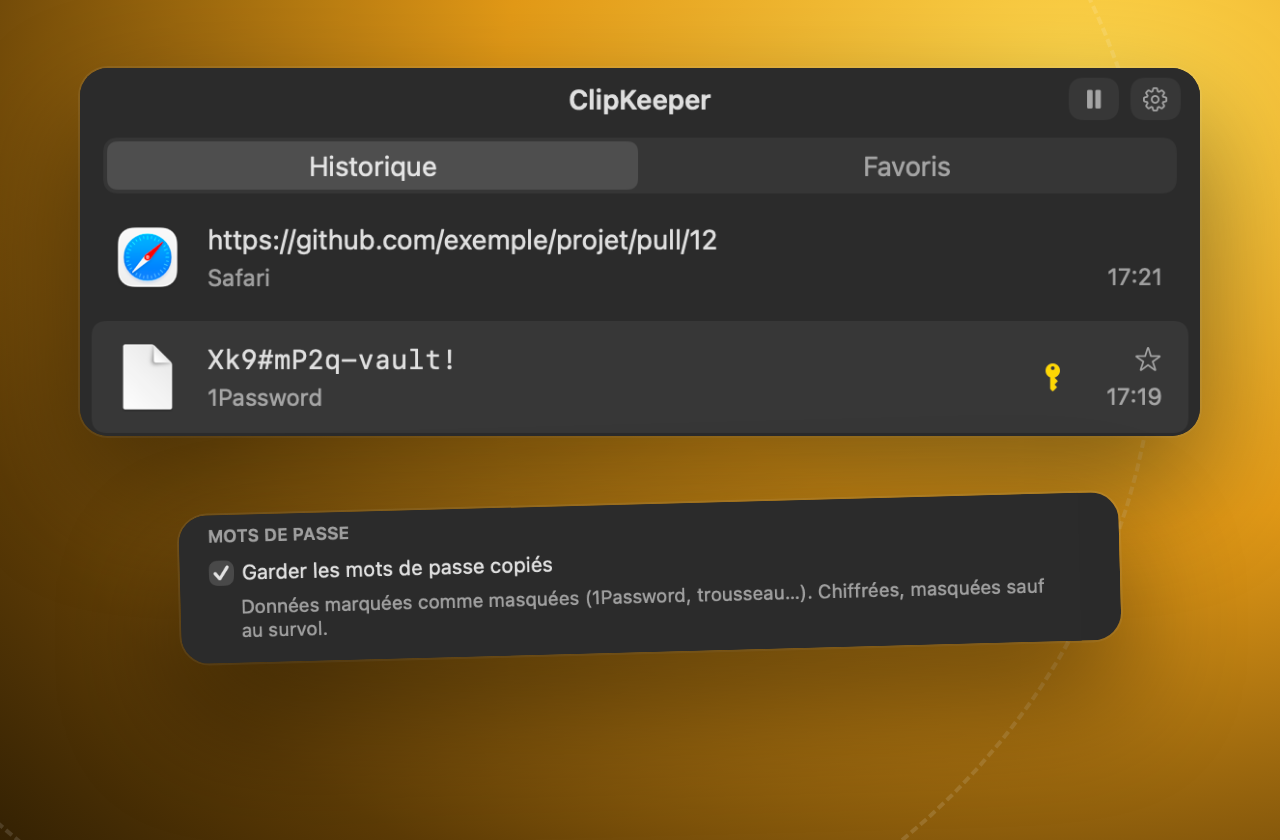
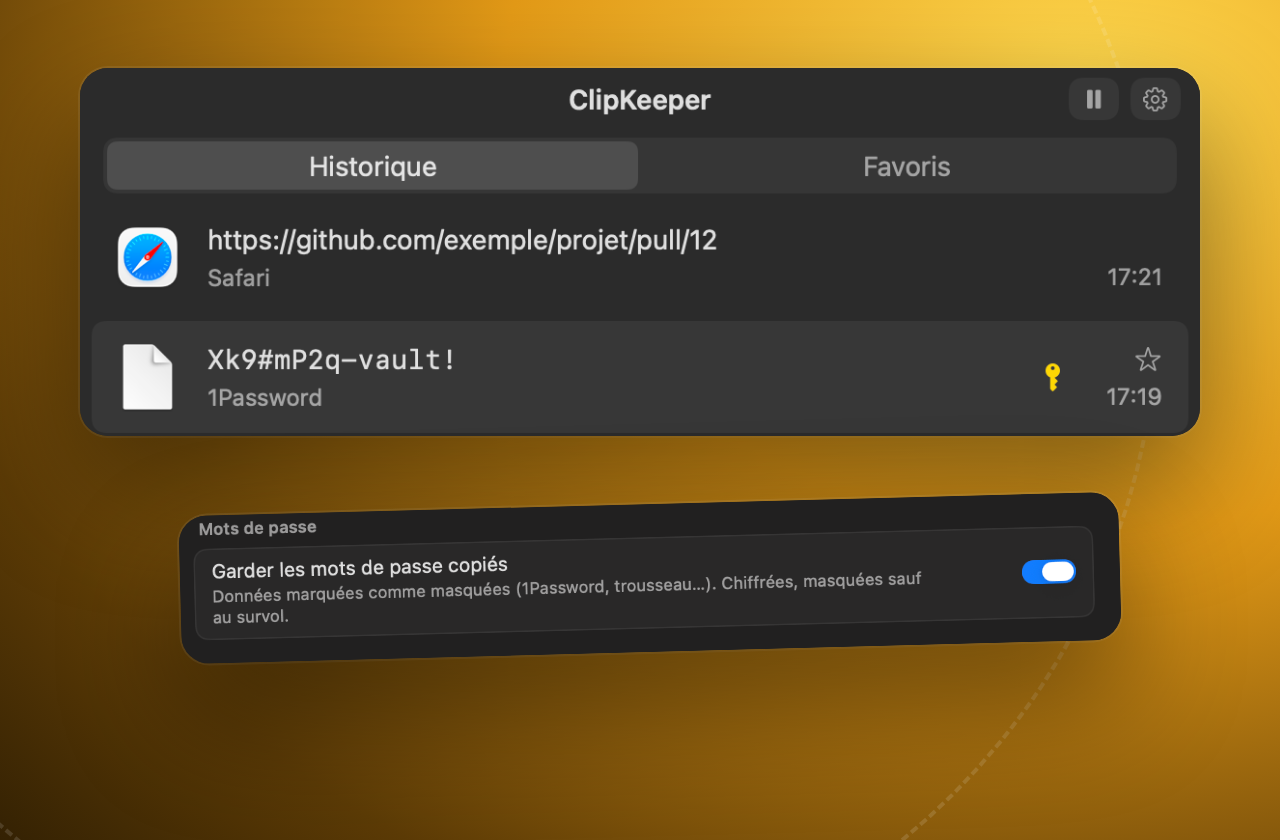
Page de présentation : nouveaux réglages (barre d'outils, lignes groupées, thème)

Changed region(s): [[0.1562, 0.619, 0.8438, 0.7738]]

diff --git a/README.md b/README.md
@@ -75,7 +75,7 @@ ClipKeeper reconnaît un mot de passe à la marque que posent 1Password et la pl
 - Il n'apparaît jamais dans l'aperçu, et la recherche ne lit pas son contenu.
 - Si macOS doit redemander l'accès au trousseau, ClipKeeper vous le dit d'abord sur un écran à lui : pas de fenêtre système par surprise.
 
-Vous préférez ne pas les garder ? Décochez **Garder les mots de passe copiés** (Préférences → Filtres). Les mots de passe déjà gardés et leur clé sont alors effacés, après confirmation.
+Vous préférez ne pas les garder ? Désactivez **Garder les mots de passe copiés** (Préférences → Filtres). Les mots de passe déjà gardés et leur clé sont alors effacés, après confirmation.
 </details>
 
 <details>
